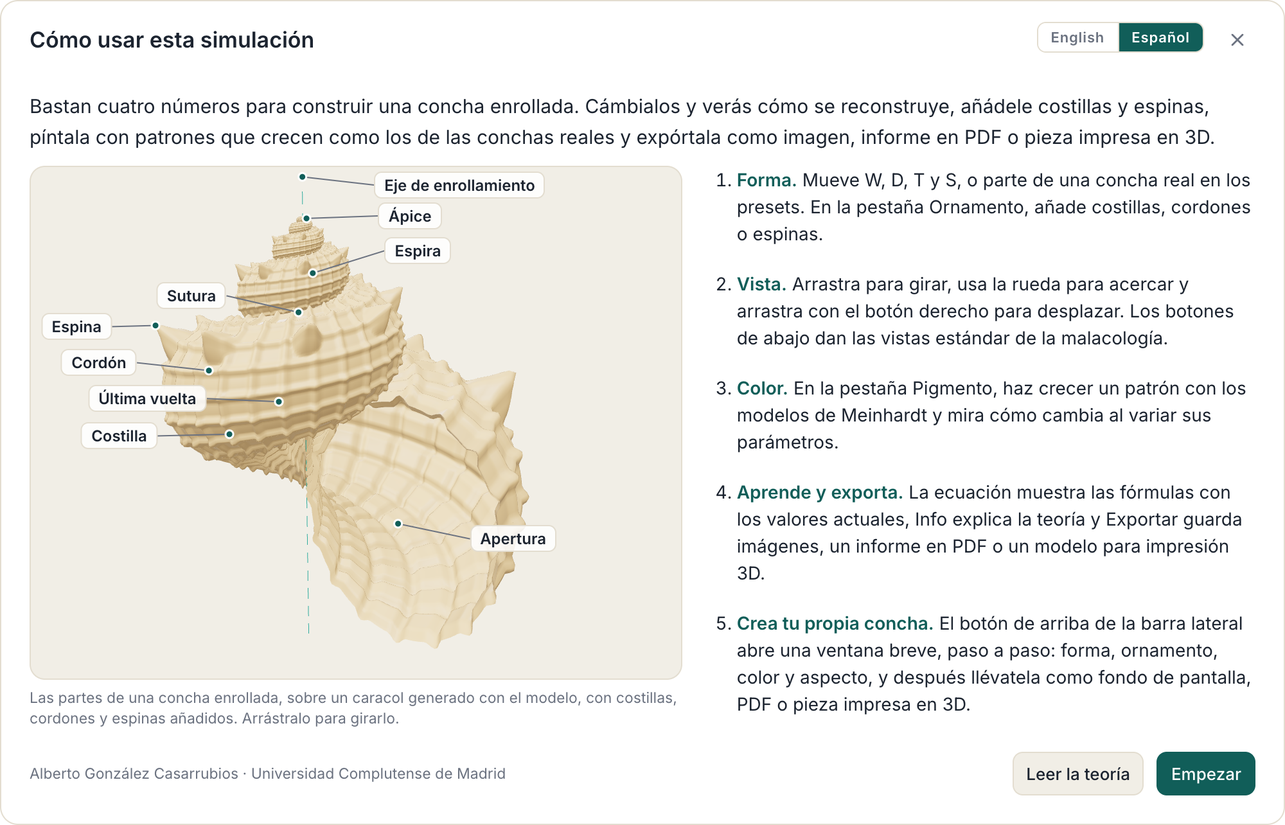
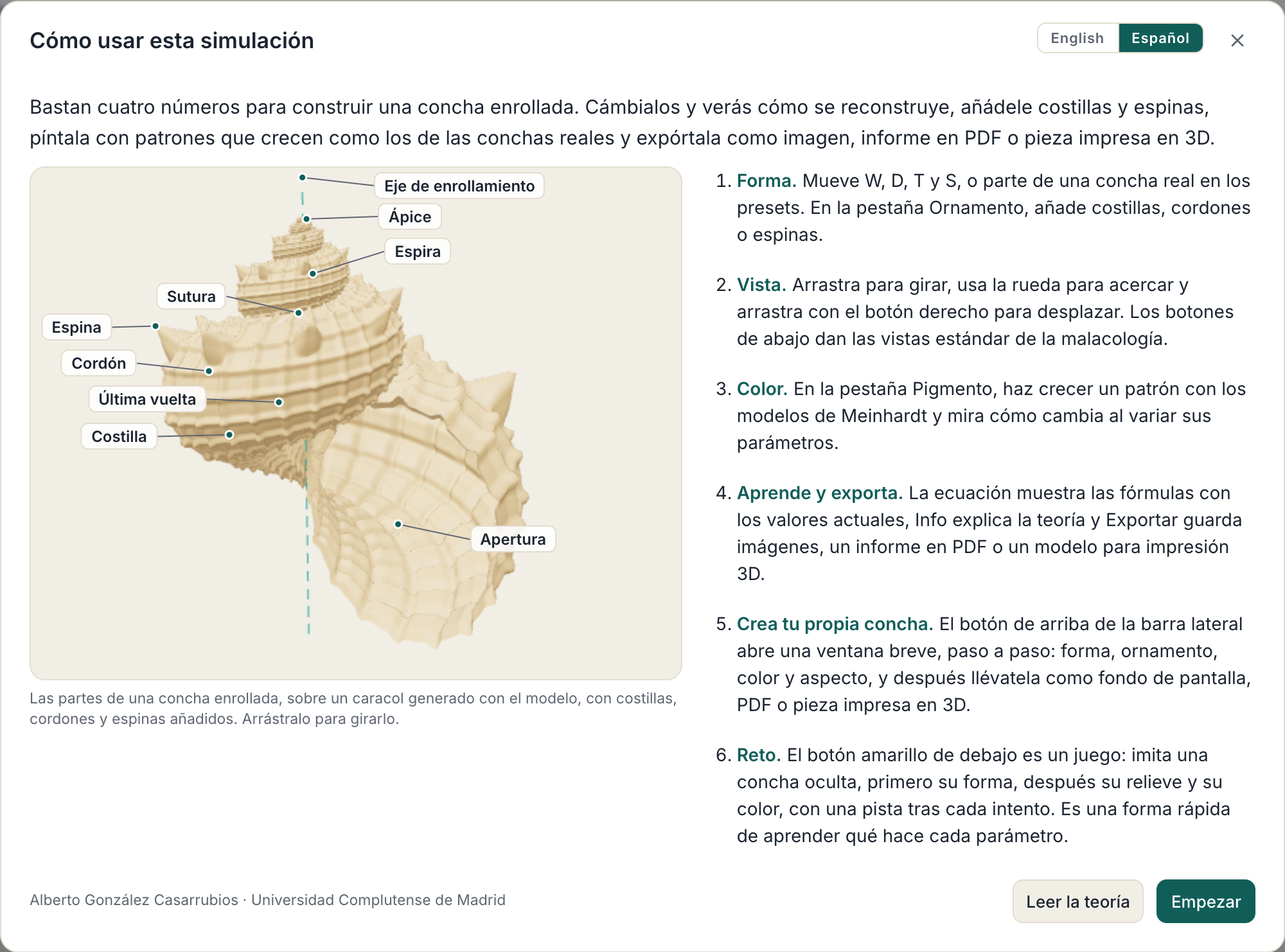
Reto: paso en la guía inicial y botón para empezar de nuevo que olvida el progreso; README y arquitectura al día

diff --git a/js/model/challenge.js b/js/model/challenge.js
@@ -431,6 +431,9 @@ function patternOf(key) {
 }
 
 /** Background and pigment colours of real shells, for colour targets. */
+/** The highest score the kind's own pattern may get against a colour target. */
+const OWN_PATTERN_MAX = 75;
+
 const SHELL_COLOURS = [
   ['#f1e7d6', '#9c4a1f'], // cream and rust
   ['#ecc95a', '#3a2216'], // yellow and dark brown
@@ -488,14 +491,17 @@ export function makeTarget(level, rand = Math.random) {
     if (free.includes('D')) shell.D = Math.min(0.6, Math.max(0, shell.D + 0.4 * f * (2 * rand() - 1)));
     if (free.includes('S')) shell.S = Math.min(1.8, Math.max(0.6, nudge(shell.S)));
     if (free.includes('patternSize')) {
-      shell.patternSize = Math.min(3, Math.max(0.6, nudge(shell.patternSize)));
-      shell.patternT = nudge(shell.patternT);
-      shell.patternNoise = Math.min(0.5, Math.max(0, shell.patternNoise + 0.2 * f * (2 * rand() - 1)));
-      shell.patternAmount = Math.min(0.85, Math.max(0.15, shell.patternAmount + 0.4 * f * (2 * rand() - 1)));
-      // Other colours than the kind's own, so choosing the right kind is not enough
-      const own = PATTERN_PRESETS[shell.patternPreset];
-      const others = SHELL_COLOURS.filter(([b, g]) => colourDistance(b, own.base) + colourDistance(g, own.pigment) > 0.15);
-      [shell.patternBase, shell.patternPigment] = pick(others);
+      // Other settings and colours than the kind's own, far enough that choosing the
+      // right kind is never enough: drawn again until the kind's own pattern scores low
+      const own = { ...shell, ...patternOf(shell.patternPreset) };
+      const others = SHELL_COLOURS.filter(([b, g]) => colourDistance(b, own.patternBase) + colourDistance(g, own.patternPigment) > 0.15);
+      for (let i = 0; i < 50 && (i === 0 || colourScore(own, shell) >= OWN_PATTERN_MAX); i++) {
+        shell.patternSize = Math.min(3, Math.max(0.6, nudge(own.patternSize, 1.6)));
+        shell.patternT = nudge(own.patternT, 1.6);
+        shell.patternNoise = Math.min(0.5, Math.max(0, own.patternNoise + 0.2 * f * (2 * rand() - 1)));
+        shell.patternAmount = Math.min(0.85, Math.max(0.15, own.patternAmount + 0.4 * f * (2 * rand() - 1)));
+        [shell.patternBase, shell.patternPigment] = pick(others);
+      }
     }
   }
   return { name, pattern, shell, varied };

diff --git a/js/ui/challenge.js b/js/ui/challenge.js
@@ -253,6 +253,7 @@ function newRound() {
   syncControls();
   $('chResult').hidden = true;
   $('chNext').hidden = true;
+  $('chRestart').hidden = true;
   $('chCheck').hidden = false;
   /** @type {HTMLElement} */ (document.querySelector('[data-view=iso]')).click();
 }
@@ -269,8 +270,11 @@ function check() {
   if (passed) {
     $('chMessage').textContent = t(target.varied ? 'ch.passed.varied' : 'ch.passed', shellName());
     if (level > best()) storage.set(PROGRESS_KEY, String(level));
-    $('chNext').hidden = level === LEVELS.length;
-    $('chNext').textContent = t('ch.next');
+    const last = level === LEVELS.length;
+    $('chNext').hidden = last;
+    // The last level passed: the challenge is complete, and can be played again from the start
+    $('chRestart').hidden = !last;
+    if (last) $('chMessage').textContent += ' ' + t('ch.done');
   } else {
     // Harder levels name the parameter to look at, and only give the direction once it is close
     $('chMessage').textContent =
@@ -403,6 +407,11 @@ export function initChallenge(ctx) {
   $('chCheck').addEventListener('click', check);
   $('chNew').addEventListener('click', newRound);
   $('chNext').addEventListener('click', () => setLevel(level + 1));
+  // Starting again forgets the progress kept in the browser
+  $('chRestart').addEventListener('click', () => {
+    storage.remove(PROGRESS_KEY);
+    setLevel(1);
+  });
 }
 
 /** Names of the kinds of pattern (after a change of language). */

diff --git a/js/i18n/es.js b/js/i18n/es.js
@@ -189,6 +189,8 @@ export default {
   'ch.hue': (p) => `«${p}» es de otro tono.`,
   'ch.new': 'Otra concha',
   'ch.check': 'Comprobar',
+  'ch.restart': 'Empezar de nuevo',
+  'ch.done': '¡Has completado el reto! Empezar de nuevo lo juega desde el primer nivel y olvida tu progreso.',
   'ch.next': 'Siguiente nivel',
   'ch.score': (n) => `Parecido: ${n} %`,
   'ch.passed': (name) => `¡Conseguido! La concha era: ${name}.`,
@@ -252,6 +254,9 @@ export default {
   'wel.s5.t': 'Crea tu propia concha.',
   'wel.s5':
     'El botón de arriba de la barra lateral abre una ventana breve, paso a paso: forma, ornamento, color y aspecto, y después llévatela como fondo de pantalla, PDF o pieza impresa en 3D.',
+  'wel.s6.t': 'Reto.',
+  'wel.s6':
+    'El botón amarillo de debajo es un juego: imita una concha oculta, primero su forma, después su relieve y su color, con una pista tras cada intento. Es una forma rápida de aprender qué hace cada parámetro.',
   'wel.theory': 'Leer la teoría',
   'wel.start': 'Empezar',
   'wel.author': 'Alberto González Casarrubios · Universidad Complutense de Madrid',

diff --git a/js/i18n/en.js b/js/i18n/en.js
@@ -190,6 +190,8 @@ export default {
   'ch.hue': (p) => `“${p}” is of another hue.`,
   'ch.new': 'Another shell',
   'ch.check': 'Check',
+  'ch.restart': 'Start again',
+  'ch.done': 'You have completed the challenge! Start again plays it from the first level and forgets your progress.',
   'ch.next': 'Next level',
   'ch.score': (n) => `Likeness: ${n} %`,
   'ch.passed': (name) => `Well done! The shell was: ${name}.`,
@@ -250,6 +252,9 @@ export default {
   'wel.s5.t': 'Create your own shell.',
   'wel.s5':
     'The button at the top of the sidebar opens a short step-by-step window: shape, ornament, colour and look, and then take it with you as a wallpaper, a PDF or a 3D print.',
+  'wel.s6.t': 'Challenge.',
+  'wel.s6':
+    'The yellow button below it is a game: copy a hidden shell, first its shape, then its relief and its colour, with a hint after each try. It is a quick way to learn what each parameter does.',
   'wel.theory': 'Read the theory',
   'wel.start': 'Start exploring',
   'wel.author': 'Alberto González Casarrubios · Universidad Complutense de Madrid',

diff --git a/index.html b/index.html
@@ -683,6 +683,7 @@
           <li><strong data-i18n="wel.s3.t">Colour</strong> <span data-i18n="wel.s3"></span></li>
           <li><strong data-i18n="wel.s4.t">Learn and export</strong> <span data-i18n="wel.s4"></span></li>
           <li><strong data-i18n="wel.s5.t">Create your own shell.</strong> <span data-i18n="wel.s5"></span></li>
+          <li><strong data-i18n="wel.s6.t">Challenge.</strong> <span data-i18n="wel.s6"></span></li>
         </ol>
       </div>
       <div class="welcome-actions">
@@ -861,6 +862,7 @@
           <button type="button" class="btn" id="chNew" data-i18n="ch.new">Another shell</button>
           <button type="button" class="btn primary" id="chCheck" data-i18n="ch.check">Check</button>
           <button type="button" class="btn primary" id="chNext" data-i18n="ch.next" hidden>Next level</button>
+          <button type="button" class="btn primary" id="chRestart" data-i18n="ch.restart" hidden>Start again</button>
         </div>
       </div>
     </div>

diff --git a/js/ui/state.js b/js/ui/state.js
@@ -150,6 +150,13 @@ export const storage = {
       /* not remembered */
     }
   },
+  remove(key) {
+    try {
+      localStorage.removeItem(key);
+    } catch {
+      /* nothing was remembered */
+    }
+  },
 };
 export const LANG_KEY = 'coiling-shells.lang';
 export const WELCOME_KEY = 'coiling-shells.welcome';

diff --git a/ARCHITECTURE.md b/ARCHITECTURE.md
@@ -275,7 +275,7 @@ In `js/ui/pigment.js` the result is coloured with a **pigmentation threshold**, 
 - **Languages.** `js/i18n/` holds every string: short interface strings in `en.js` and `es.js`, the long About pages in `theory-en.js` and `theory-es.js`, and the formulas and references shared by both in `tex.js`. In the HTML, the `data-i18n`, `data-i18n-html` and `data-i18n-title` attributes mark what to translate; everything else (parameters, presets, morphospace, charts) is translated from `main.js`. The page opens in English, or in the language chosen on a previous visit. The choice is stored in `localStorage` through a small `storage` wrapper that does nothing if storage is unavailable.
 - **State in the URL.** The current shell is stored in the hash (`#W=2.4&D=0.08&T=1.6&S=1&N=4.5&h=1&v=0&m=lines`) with `history.replaceState`, so copying the address shares the shell. With a pattern applied, `pg=1` and its parameters are added (`pm`, `pDa`, `pD2`, …, `ps` for the seed, `pi` for insertion and `pcb`/`pcp` for the colours). The look follows: `lc`, `sc` and `bg` (line, shell and background colours, in hex without `#`) once a colour has been chosen or came in a link, `q` for a mesh resolution other than medium, `bd=0` without growth bands and `ax=1` with the axis shown. `main.js` writes them through the `lookHash` hook of `setHashHooks` and applies them on load (`lookFromHash`).
 - **Tabs.** The sidebar has three tabs (Shape, Ornament and Pigment), each with a *Theory* link to its page of the About dialog, which has five pages (Raup, Meinhardt, Ornament · mechanics, Controls and Credits). The pages contain only theory, controls and credits; technical details live only in this document. Each page is typeset with MathJax the first time it is shown. Secondary sections of the sidebar are `<details class="drawer">`: geometry (open by default), the pigment colours and, in the ornament tab, ribs, cords, spines, keel and change with growth, which have equal rank; `openActiveDrawers` (ornament-tab.js) opens the ones the shell has whenever the relief is replaced (an example, undo, removing it) and never folds one while a slider is moved. The sidebar's scrollbar is thin and in the theme colours, visible only while the pointer is over it.
-- **Welcome guide** (`js/ui/guide.js`, `#welcome`). Opens on the first visit, unless the page was opened from a shared link (a hash with shape or pattern), always when the address contains `?guide`, and again from the *Guide* button; closing it stores `coiling-shells.welcome` in `localStorage`. It has its own small Three.js scene (`buildWelcome`, built the first time it opens) with a snail generated by `buildShell` (`GUIDE_SHAPE`, a garden snail with a taller spire) with a relief added (`GUIDE_ORNAMENT`: reticulate ribs and cords, and a row of spines on the shoulder) in a plain shell colour, `OrbitControls` for rotation which turn it when dragged. The labels of the parts (`shellAnchors`) are anchored to points of the generated mesh: apex, spire, suture, body whorl, aperture (centre of the last ring), coiling axis, a rib and a cord (crests on the last whorl) and a spine (a spine tip, which is a mesh vertex). The suture is computed exactly: two rings one turn apart lie in the same meridian plane, and the crossing of their outlines farther from the axis is the suture seen from outside. The umbilicus is not labelled: it is barely open and only visible from below. Parts that run along a whorl have several candidate points; every few frames each label moves to the closest candidate that is not hidden (for the spine, the one seen most in profile, so it is not foreshortened), tested by ray casting against a coarse copy of the shell, and labels with no visible candidate are faded. When one side of the shell gathers too many labels, those closest to the centre move to the other side; then the labels are spread vertically on each side so they never overlap, also near the top edge. The scene only renders while the guide is open, and the main viewer pauses meanwhile.
+- **Welcome guide** (`js/ui/guide.js`, `#welcome`). Opens on the first visit, unless the page was opened from a shared link (a hash with shape or pattern), always when the address contains `?guide`, and again from the *Guide* button; closing it stores `coiling-shells.welcome` in `localStorage`. It has its own small Three.js scene (`buildWelcome`, built the first time it opens) with a snail generated by `buildShell` (`GUIDE_SHAPE`, a garden snail with a taller spire) with a relief added (`GUIDE_ORNAMENT`: reticulate ribs and cords, and a row of spines on the shoulder) in a plain shell colour, `OrbitControls` for rotation which turn it when dragged. The labels of the parts (`shellAnchors`) are anchored to points of the generated mesh: apex, spire, suture, body whorl, aperture (centre of the last ring), coiling axis, a rib and a cord (crests on the last whorl) and a spine (a spine tip, which is a mesh vertex). The suture is computed exactly: two rings one turn apart lie in the same meridian plane, and the crossing of their outlines farther from the axis is the suture seen from outside. The umbilicus is not labelled: it is barely open and only visible from below. Parts that run along a whorl have several candidate points; every few frames each label moves to the closest candidate that is not hidden (for the spine, the one seen most in profile, so it is not foreshortened), tested by ray casting against a coarse copy of the shell, and labels with no visible candidate are faded. When one side of the shell gathers too many labels, those closest to the centre move to the other side; then the labels are spread vertically on each side so they never overlap, also near the top edge. The scene only renders while the guide is open, and the main viewer pauses meanwhile. Beside the shell, six numbered steps (`wel.s1`–`wel.s6`) explain the app: shape, view, colour, learn and export, the shell creator and the challenge.
 - **Relief settings only when the relief is there.** `ORNAMENT_NEEDS` (ornament.js) says which settings need which kind of relief: the height, width, asymmetry and position of ribs, cords and spines need at least one of them, and the keel's width and position need a keel height. `syncPresence` (controls.js), called from `markDirty` and before each rebuild, adds the `absent` class (`display: none`) to every slider bound to such a key while its count is 0, in the ornament tab, the shell creator and the challenge alike; the nodules box (which needs ribs and cords) and the second row of spines follow the same rule.
 - **Fullscreen and hide info.** Fullscreen uses the Fullscreen API on the viewer container. *Hide info* adds the `clean` class to `<body>`, which hides everything except the canvas and a button to come back.
 - **Pointer capture.** `capturePointer` wraps `setPointerCapture`, which throws if the pointer is no longer active (e.g. a cancelled touch).
@@ -296,11 +296,11 @@ In `js/ui/pigment.js` the result is coloured with a **pigmentation threshold**, 
 `#challenge` is a modal window built like the shell creator: `openChallenge` moves the app's canvas into `#chView`, and its sliders are `createParam` controls (ids `ch-…`) bound to `state`. The game logic is the pure module `js/model/challenge.js`:
 
 - **Levels** (`LEVELS`), from easier to harder. They come in three blocks (`block`: `shape`, `ornament`, `colour`), shown as numbered steps in one box per block. The free parameters are grouped in boxes like the categories of the main interface (Raup parameters, geometry, ribs, cords, spines, pattern, pigment colours; `GROUP_OF` in ui/challenge.js), and a box is shown only when the level frees one of its parameters. The result of *Check* (likeness and hint) sits between the scrolling controls and the buttons, so it is always in view. Each lists its free parameters (`keys`), what its score judges (`parts`: `shape`, `relief`, `colour`), the score to pass (`pass`, 85 → 90) and how far targets vary (`vary`, `always`); `vague` levels give hints that name the parameter but not the direction until it is close. The levels: W; W, T; W, D, T; the whole shape with the coiling direction (targets always varied, vague hints); the relief (`ribN`, `ribH`, `cordN`, `cordH`, `spineN`, `spineH`) of an ornamented shell whose shape is given; its shape and relief together (vague hints; bivalves left out, since their W of hundreds is beyond the compact slider); the colour (`patternPreset`, `patternSize`, `patternT`, `patternNoise`, `patternAmount`, and the colours `patternBase`, `patternPigment`, set with two colour pickers) of a given shape; and everything at once (all the shape, relief and colour keys; vague hints). Every other parameter is set to the target's value.
-- **Targets** (`makeTarget`) are the shape presets, the ornamented presets for the relief levels, a shape preset with a pattern preset for the colour level, and an ornamented preset with a pattern preset for the last level; variants nudge the free parameters by the level's `vary`. Colour targets are always variants and take one of six pairs of shell colours (`SHELL_COLOURS`) other than the kind's own, so choosing the right kind is never enough. The player starts away from the target (`startShell` puts each free parameter on the other side of its range; relief starts smooth; the colour level starts from another kind of pattern).
+- **Targets** (`makeTarget`) are the shape presets, the ornamented presets for the relief levels, a shape preset with a pattern preset for the colour level, and an ornamented preset with a pattern preset for the last level; variants nudge the free parameters by the level's `vary`. Colour targets are always variants and take one of six pairs of shell colours (`SHELL_COLOURS`) other than the kind's own; their settings and colours are drawn again until the kind's own pattern scores below 75 (`OWN_PATTERN_MAX`), so choosing the right kind is never enough. The player starts away from the target (`startShell` puts each free parameter on the other side of its range; relief starts smooth; the colour level starts from another kind of pattern).
 - **Score.** `masks` builds the shell at its normalised size, projects it along the three axes and fills the triangles into a 128 × 128 grid. `silhouettes` then centres each mask on its centre of mass, scales it by its own radius of gyration (so an extra tiny whorl at the apex does not rescale the whole outline) and blurs it a little (so a small shift of the outline is a small difference). `overlap` is the mean soft intersection over union (sum of minima over sum of maxima); the side and top views are also compared mirrored, because a shell and its mirror image look alike. `scoreFromOverlap` maps the overlap to 0–100 with ((overlap − 0.76)/0.24)^0.45, calibrated on real shells so that the score agrees with the eye: variants with every shape parameter a little off score about 93 (80–99), and different shells score 0, except pairs that do look alike (snail-like Trochus and Peringia, Planorbis and Nautilus: below 60). When the level also frees the relief, the guess's outline is drawn with the target's relief, so a difference of relief is counted once, by the relief score. A wrong coiling direction multiplies the score by 0.8. Relief barely changes an outline, so the relief level uses `reliefScore` instead: for each kind of relief present in either shell, the nearness of its number times that of its height. The colour levels use `colourScore`: the mean nearness of the four pattern settings and of the two colours (`colourDistance`, in RGB). Nearness is 1 − (d/2.5)² of the distance d in each parameter's own scale (`SCALE`): a difference the eye barely sees costs almost nothing, a large one a lot. The colour score is kept whole only for the right kind of pattern (a third otherwise). `levelScore` takes the lowest score of the level's `parts`, so none can be skipped.
 - **Hints** (`bestHint`) report the free parameter furthest from the target in its own scale (`SCALE`, W logarithmic), with its direction (`up`, `down`, `flip`, `change`; for colours `lighter`, `darker` or `hue`). A wrong kind of pattern always comes first, and the height of ribs, cords or spines is never hinted while there are none (their count comes first). A hint based on silhouettes alone would fail when several parameters are wrong, because setting one right can make the outlines less alike. Tolerances are about half a slider step, so a right answer can always be set exactly; `tests/challenge.test.mjs` plays every level by following the hints with slider steps and checks that it always passes.
 
-The target is a second mesh in the shell group (`targetSolid`, `targetInner`, with the materials of the player's shell; in the colour level, copies of them whose map is the target's own pattern, simulated on the main thread with `simulatePattern` at 1024 × 512, the same seed as the player's, and coloured with `colorize` from pigment.js), built by `targetGeometry` at the current mesh quality. While the window is open, the render loop calls `renderChallengeSplit`, which draws the scene twice with the scissor test: one half with only the target visible and the other with only the player's shell, side by side or one above the other on a portrait view, and with the same camera, so the orbit controls turn both together. Opening the challenge saves the user's shell (`saveState` in undo.js) and pauses the page address and the undo history (`pauseAddress` in state.js); the keyboard shortcuts are off while it is open; closing it brings everything back with `loadState`, which is not an undo step. The highest level passed is kept in `localStorage` (`coiling-shells.challenge`).
+The target is a second mesh in the shell group (`targetSolid`, `targetInner`, with the materials of the player's shell; in the colour level, copies of them whose map is the target's own pattern, simulated on the main thread with `simulatePattern` at 1024 × 512, the same seed as the player's, and coloured with `colorize` from pigment.js), built by `targetGeometry` at the current mesh quality. While the window is open, the render loop calls `renderChallengeSplit`, which draws the scene twice with the scissor test: one half with only the target visible and the other with only the player's shell, side by side or one above the other on a portrait view, and with the same camera, so the orbit controls turn both together. Opening the challenge saves the user's shell (`saveState` in undo.js) and pauses the page address and the undo history (`pauseAddress` in state.js); the keyboard shortcuts are off while it is open; closing it brings everything back with `loadState`, which is not an undo step. The highest level passed is kept in `localStorage` (`coiling-shells.challenge`). Passing the last level shows *Start again* (`chRestart`), which removes that key (`storage.remove`) and goes back to level 1.
 
 ## Undo
 

diff --git a/docs/README.es.md b/docs/README.es.md
@@ -17,9 +17,9 @@ Un explorador 3D interactivo de la **morfología teórica de las conchas enrolla
 
 **▶ Abrir la app: https://albertogonzalezcasarrubios.github.io/coiling-shells/**
 
-En la primera visita, una guía breve muestra las partes de una concha enrollada, costillas, cordones y espinas incluidos, sobre un modelo 3D interactivo, y explica en cinco pasos cómo funciona la app. El botón *Guía* la vuelve a abrir, y añadir `?guide` a la dirección la muestra siempre. La app se abre en inglés; el español se elige en la guía o con el botón EN / ES, y la elección se recuerda.
+En la primera visita, una guía breve muestra las partes de una concha enrollada, costillas, cordones y espinas incluidos, sobre un modelo 3D interactivo, y explica en seis pasos, el último el reto, cómo funciona la app. El botón *Guía* la vuelve a abrir, y añadir `?guide` a la dirección la muestra siempre. La app se abre en inglés; el español se elige en la guía o con el botón EN / ES, y la elección se recuerda.
 
-![La guía de bienvenida: un caracol generado con el modelo, con costillas, cordones y espinas añadidos y sus partes señaladas, y cinco pasos breves sobre cómo usar la simulación](images/guide-es.png)
+![La guía de bienvenida: un caracol generado con el modelo, con costillas, cordones y espinas añadidos y sus partes señaladas, y seis pasos breves sobre cómo usar la simulación](images/guide-es.png)
 
 Al cerrar la guía, la app muestra un caracol de jardín dibujado con líneas, listo para explorar:
 
@@ -29,7 +29,7 @@ Al cerrar la guía, la app muestra un caracol de jardín dibujado con líneas, l
 
 ![El creador de conchas en su paso de ornamento: un ammonites con costillas y espinas dibujado con líneas a la izquierda y los deslizadores simplificados a la derecha](images/wizard.png)
 
-**Reto: imita la concha**, justo debajo, es un juego para aprender qué hace cada parámetro. Muestra una concha objetivo, una real con el nombre oculto o una variante suya, junto a la tuya, las dos en 3D y girando a la vez, y tú cambias la tuya hasta que se parezcan. *Comprobar* da el parecido en porcentaje y una pista sobre qué cambiar; al superar un nivel se revela el nombre. Los ocho niveles se agrupan en tres bloques y se vuelven más difíciles poco a poco. *Forma*: W; W y T; W, D y T, y toda la forma, con objetivos más alejados de las conchas reales y pistas que dicen en qué fijarse pero no hacia dónde. *Ornamentación*: el relieve de una concha ornamentada, y después su forma y su relieve a la vez. *Color*: el patrón de una forma dada, eligiendo su tipo, sus ajustes y sus dos colores, y por último todo a la vez: forma, relieve y color. La nota necesaria sube del 85 % al 90 %; cuando un nivel juzga varias cosas, el parecido es el de la que más se aleja, así que no se puede saltar ninguna. El parecido compara los contornos de las dos conchas vistas de frente, de lado y desde arriba, centrados, a la misma escala y ligeramente suavizados, de modo que las conchas que se parecen a la vista puntúan alto; en los niveles de relieve, que apenas cambia el contorno, compara el propio relieve, y en los de color, los ajustes y colores que dibujan el patrón. Siguiendo las pistas siempre se supera un nivel, y el juego no toca tu propia concha.
+**Reto: imita la concha**, justo debajo, es un juego para aprender qué hace cada parámetro. Muestra una concha objetivo, una real con el nombre oculto o una variante suya, junto a la tuya, las dos en 3D y girando a la vez, y tú cambias la tuya hasta que se parezcan. *Comprobar* da el parecido en porcentaje y una pista sobre qué cambiar; al superar un nivel se revela el nombre. Los ocho niveles se agrupan en tres bloques y se vuelven más difíciles poco a poco. *Forma*: W; W y T; W, D y T, y toda la forma, con objetivos más alejados de las conchas reales y pistas que dicen en qué fijarse pero no hacia dónde. *Ornamentación*: el relieve de una concha ornamentada, y después su forma y su relieve a la vez. *Color*: el patrón de una forma dada, eligiendo su tipo, sus ajustes y sus dos colores, y por último todo a la vez: forma, relieve y color. La nota necesaria sube del 85 % al 90 %; cuando un nivel juzga varias cosas, el parecido es el de la que más se aleja, así que no se puede saltar ninguna. El parecido compara los contornos de las dos conchas vistas de frente, de lado y desde arriba, centrados, a la misma escala y ligeramente suavizados, de modo que las conchas que se parecen a la vista puntúan alto; en los niveles de relieve, que apenas cambia el contorno, compara el propio relieve, y en los de color, los ajustes y colores que dibujan el patrón. Siguiendo las pistas siempre se supera un nivel, y el juego no toca tu propia concha. El navegador recuerda el nivel más alto superado; al superar el último, *Empezar de nuevo* juega el reto desde el primer nivel y olvida ese progreso.
 
 ![El reto en el primer nivel de color: el objetivo, una Turritella con llamas rosas y moradas, arriba y la concha del jugador con llamas naranjas abajo; los niveles en tres cajas, una por bloque, los deslizadores del patrón y los colores del pigmento en cajas propias, un parecido del 81 % y la pista de oscurecer el pigmento](images/challenge.png)
 

diff --git a/README.md b/README.md
@@ -15,9 +15,9 @@ An interactive 3D explorer of the **theoretical morphology of coiled shells**. T
 
 **▶ Open the app: https://albertogonzalezcasarrubios.github.io/coiling-shells/**
 
-On the first visit, a short guide shows the parts of a coiled shell, ribs, cords and spines included, on an interactive 3D model, and explains how the app works in five steps. The *Guide* button opens it again, and adding `?guide` to the address always shows it. The app opens in English; Spanish can be chosen in the guide or with the EN / ES button, and the choice is remembered.
+On the first visit, a short guide shows the parts of a coiled shell, ribs, cords and spines included, on an interactive 3D model, and explains how the app works in six steps, the last one the challenge. The *Guide* button opens it again, and adding `?guide` to the address always shows it. The app opens in English; Spanish can be chosen in the guide or with the EN / ES button, and the choice is remembered.
 
-![The welcome guide: a snail generated by the model, with ribs, cords and spines added and its parts labelled, and five short steps on how to use the simulation](docs/images/guide.png)
+![The welcome guide: a snail generated by the model, with ribs, cords and spines added and its parts labelled, and six short steps on how to use the simulation](docs/images/guide.png)
 
 After closing the guide, the app shows a garden snail drawn with lines, ready to explore:
 
@@ -27,7 +27,7 @@ After closing the guide, the app shows a garden snail drawn with lines, ready to
 
 ![The shell creator at its ornament step: an ammonite with ribs and spines drawn with lines on the left and the simplified sliders on the right](docs/images/wizard.png)
 
-**Challenge: match the shell**, just below it, is a game for learning what each parameter does. It shows a target shell, a real one with its name hidden or a variant of it, next to your own, both in 3D and turning together, and you change yours until they look alike. *Check* gives the likeness as a percentage and a hint on what to change; passing a level reveals the name. The eight levels come in three blocks and get harder step by step. *Shape*: W; W and T; W, D and T; and the whole shape, with targets further from the real shells and hints that say what to look at but not which way. *Ornament*: the relief of an ornamented shell; then its shape and relief together. *Colour*: the pattern of a given shape, choosing its kind, its settings and its two colours; and finally everything at once, shape, relief and colour. The score needed rises from 85 % to 90 %; when a level judges several things, the likeness is that of the one furthest off, so none can be skipped. The likeness compares the outlines of both shells seen from the front, the side and above, centred and scaled to the same size and slightly blurred, so that shells that look alike score high; in the relief levels, where relief barely changes the outline, it compares the relief itself, and in the colour levels the settings and colours that draw the pattern. Following the hints always passes a level, and your own shell is untouched by the game.
+**Challenge: match the shell**, just below it, is a game for learning what each parameter does. It shows a target shell, a real one with its name hidden or a variant of it, next to your own, both in 3D and turning together, and you change yours until they look alike. *Check* gives the likeness as a percentage and a hint on what to change; passing a level reveals the name. The eight levels come in three blocks and get harder step by step. *Shape*: W; W and T; W, D and T; and the whole shape, with targets further from the real shells and hints that say what to look at but not which way. *Ornament*: the relief of an ornamented shell; then its shape and relief together. *Colour*: the pattern of a given shape, choosing its kind, its settings and its two colours; and finally everything at once, shape, relief and colour. The score needed rises from 85 % to 90 %; when a level judges several things, the likeness is that of the one furthest off, so none can be skipped. The likeness compares the outlines of both shells seen from the front, the side and above, centred and scaled to the same size and slightly blurred, so that shells that look alike score high; in the relief levels, where relief barely changes the outline, it compares the relief itself, and in the colour levels the settings and colours that draw the pattern. Following the hints always passes a level, and your own shell is untouched by the game. The browser remembers the highest level passed; once the last one is passed, *Start again* plays the challenge from the first level and forgets that progress.
 
 ![The challenge in the first colour level: the target, a Turritella with pink and purple flame stripes, above and the player's shell with orange stripes below; the levels in three boxes, one per block, the pattern sliders and the pigment colours in boxes of their own, a likeness of 81 % and the hint to make the pigment darker](docs/images/challenge.png)
 

diff --git a/CHANGELOG.md b/CHANGELOG.md
@@ -5,7 +5,7 @@ All notable changes to this project are documented in this file. The format is b
 ## [Unreleased]
 
 ### Added
-- *Challenge: match the shell*: a game for learning what each parameter does. The target shell (a real one with its name hidden, or a variant) and the player's shell side by side in 3D, turning together; *Check* gives the likeness and a hint, and from 90 % the level is passed and the shell revealed. Eight levels in three blocks (each in its own box), harder step by step; the controls are grouped by category as in the sidebar. Shape: W; W and T; W, D and T; the whole shape (targets further from the real shells, hints that name the parameter but not the direction). Ornament: the relief with the shape given; shape and relief together. Colour: the pattern (its kind, settings and two colours, with colour pickers) on a given shape; and everything at once. The score needed rises from 85 % to 90 %; a level that judges several things scores the one furthest off. The likeness compares the outlines from the front, the side and above, centred, scaled and slightly blurred so that shells that look alike score high, the relief itself in the relief levels, and the pattern settings and colours in the colour levels. The user's own shell, the page address and the undo history are left untouched.
+- *Challenge: match the shell*: a game for learning what each parameter does. The target shell (a real one with its name hidden, or a variant) and the player's shell side by side in 3D, turning together; *Check* gives the likeness and a hint, and from 90 % the level is passed and the shell revealed. Eight levels in three blocks (each in its own box), harder step by step; the controls are grouped by category as in the sidebar. Shape: W; W and T; W, D and T; the whole shape (targets further from the real shells, hints that name the parameter but not the direction). Ornament: the relief with the shape given; shape and relief together. Colour: the pattern (its kind, settings and two colours, with colour pickers) on a given shape; and everything at once. The score needed rises from 85 % to 90 %; a level that judges several things scores the one furthest off. The likeness compares the outlines from the front, the side and above, centred, scaled and slightly blurred so that shells that look alike score high, the relief itself in the relief levels, and the pattern settings and colours in the colour levels. The user's own shell, the page address and the undo history are left untouched. The highest level passed is remembered; after the last one, *Start again* forgets it. The welcome guide has a sixth step about the challenge.
 
 ### Changed
 - The height, width, asymmetry and position of ribs, cords and spines, and the width and position of the keel, only show when the shell has that relief (in the ornament tab, the shell creator and the challenge); so do the nodules box and the second row of spines.
